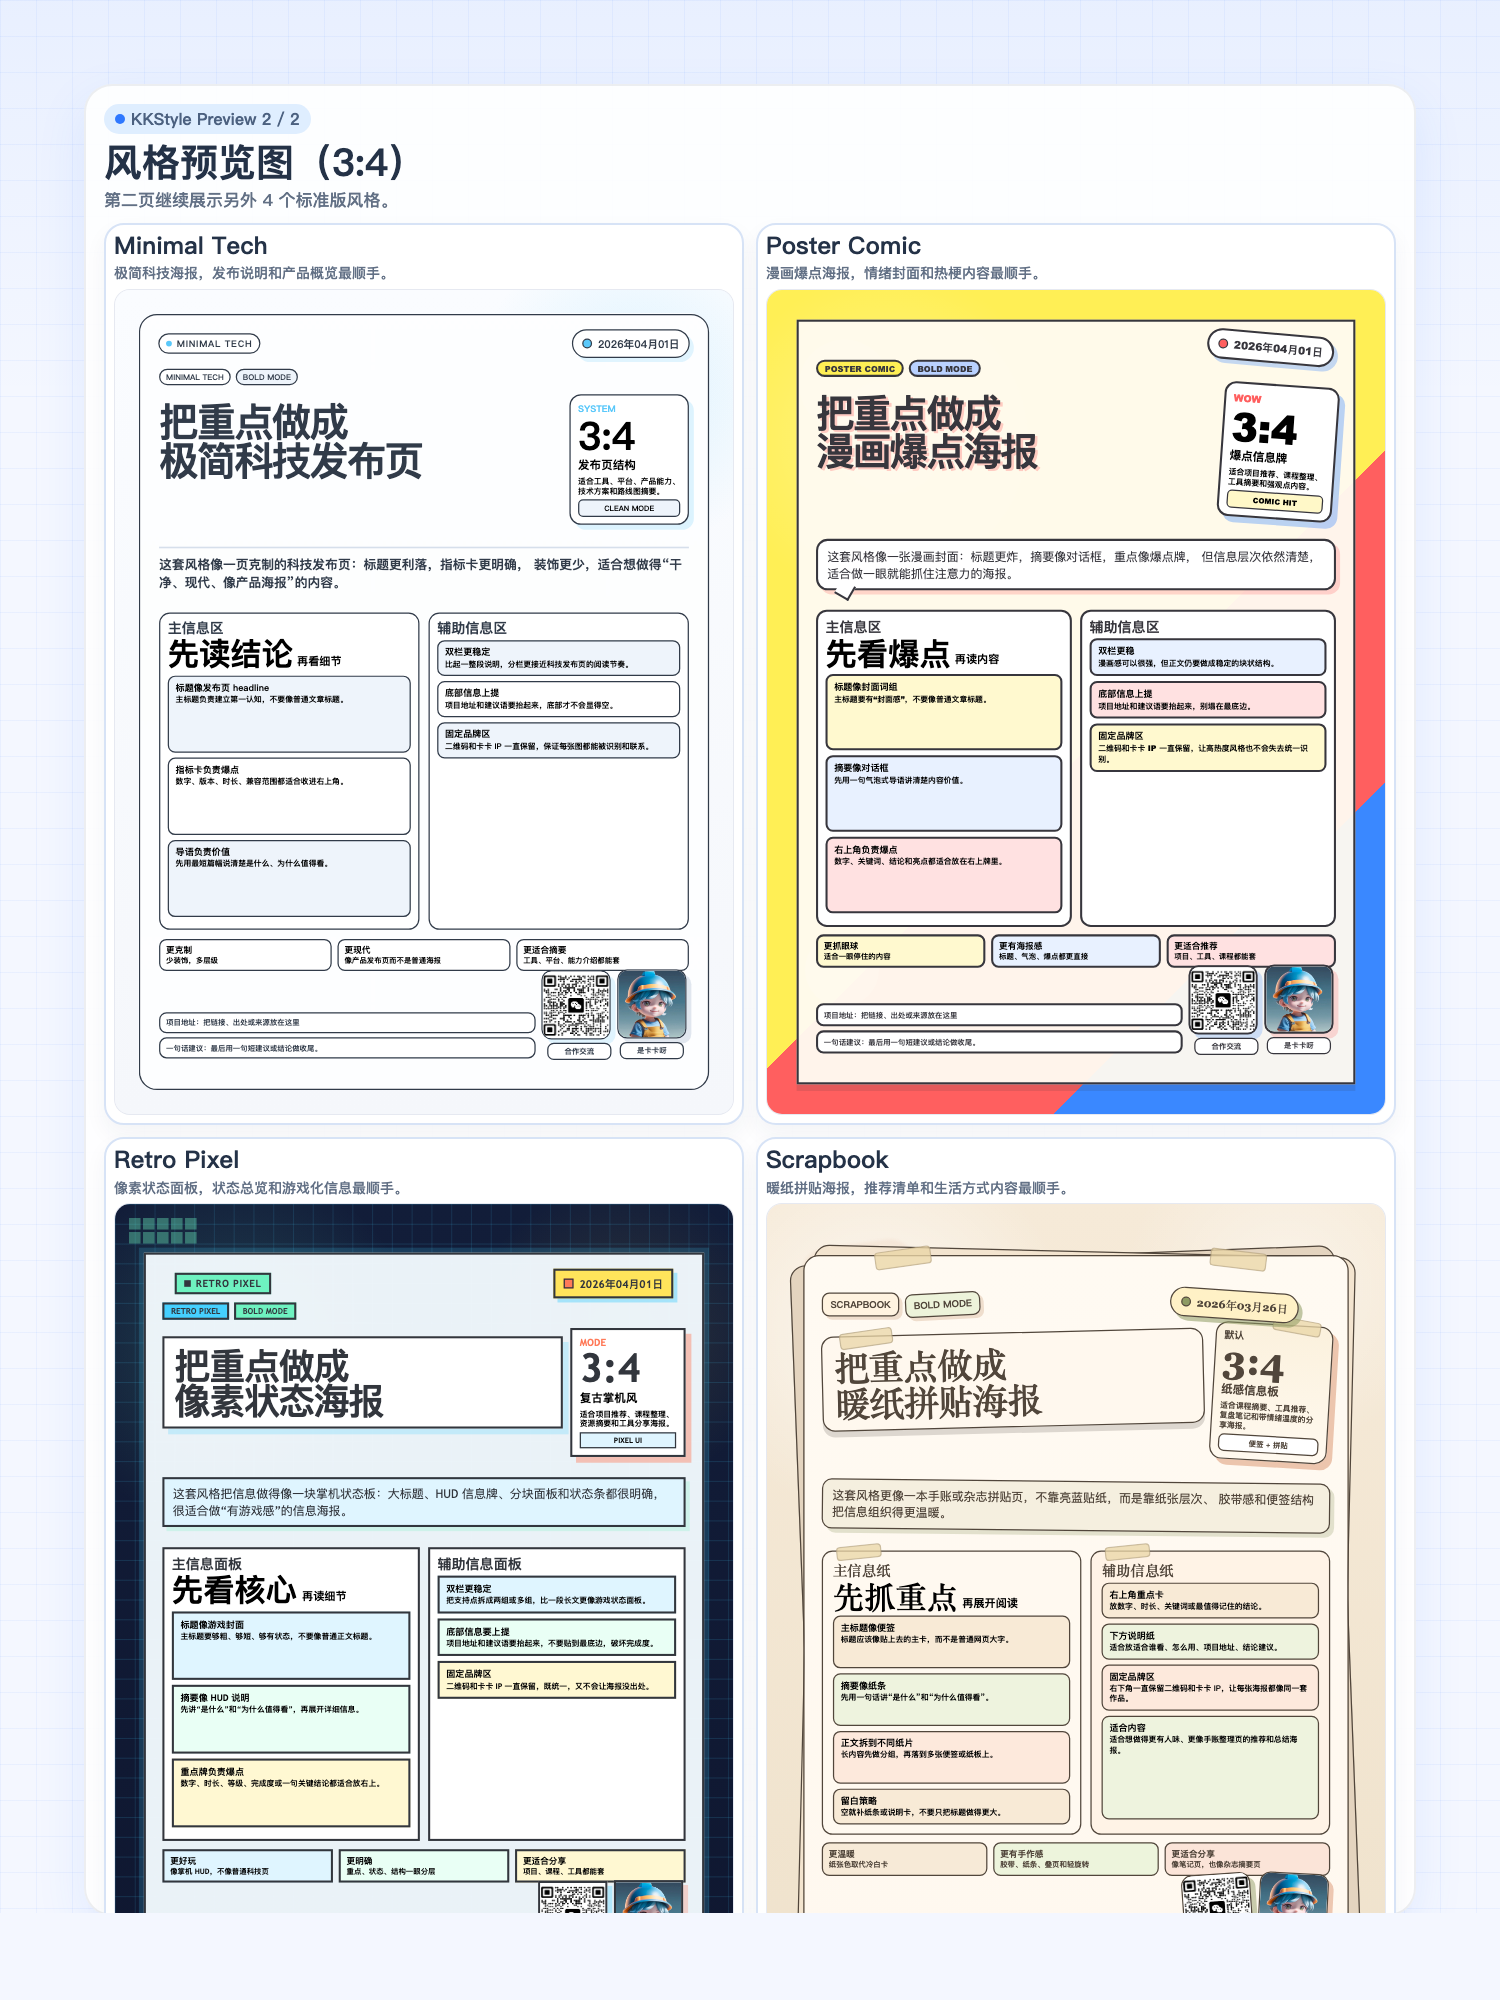
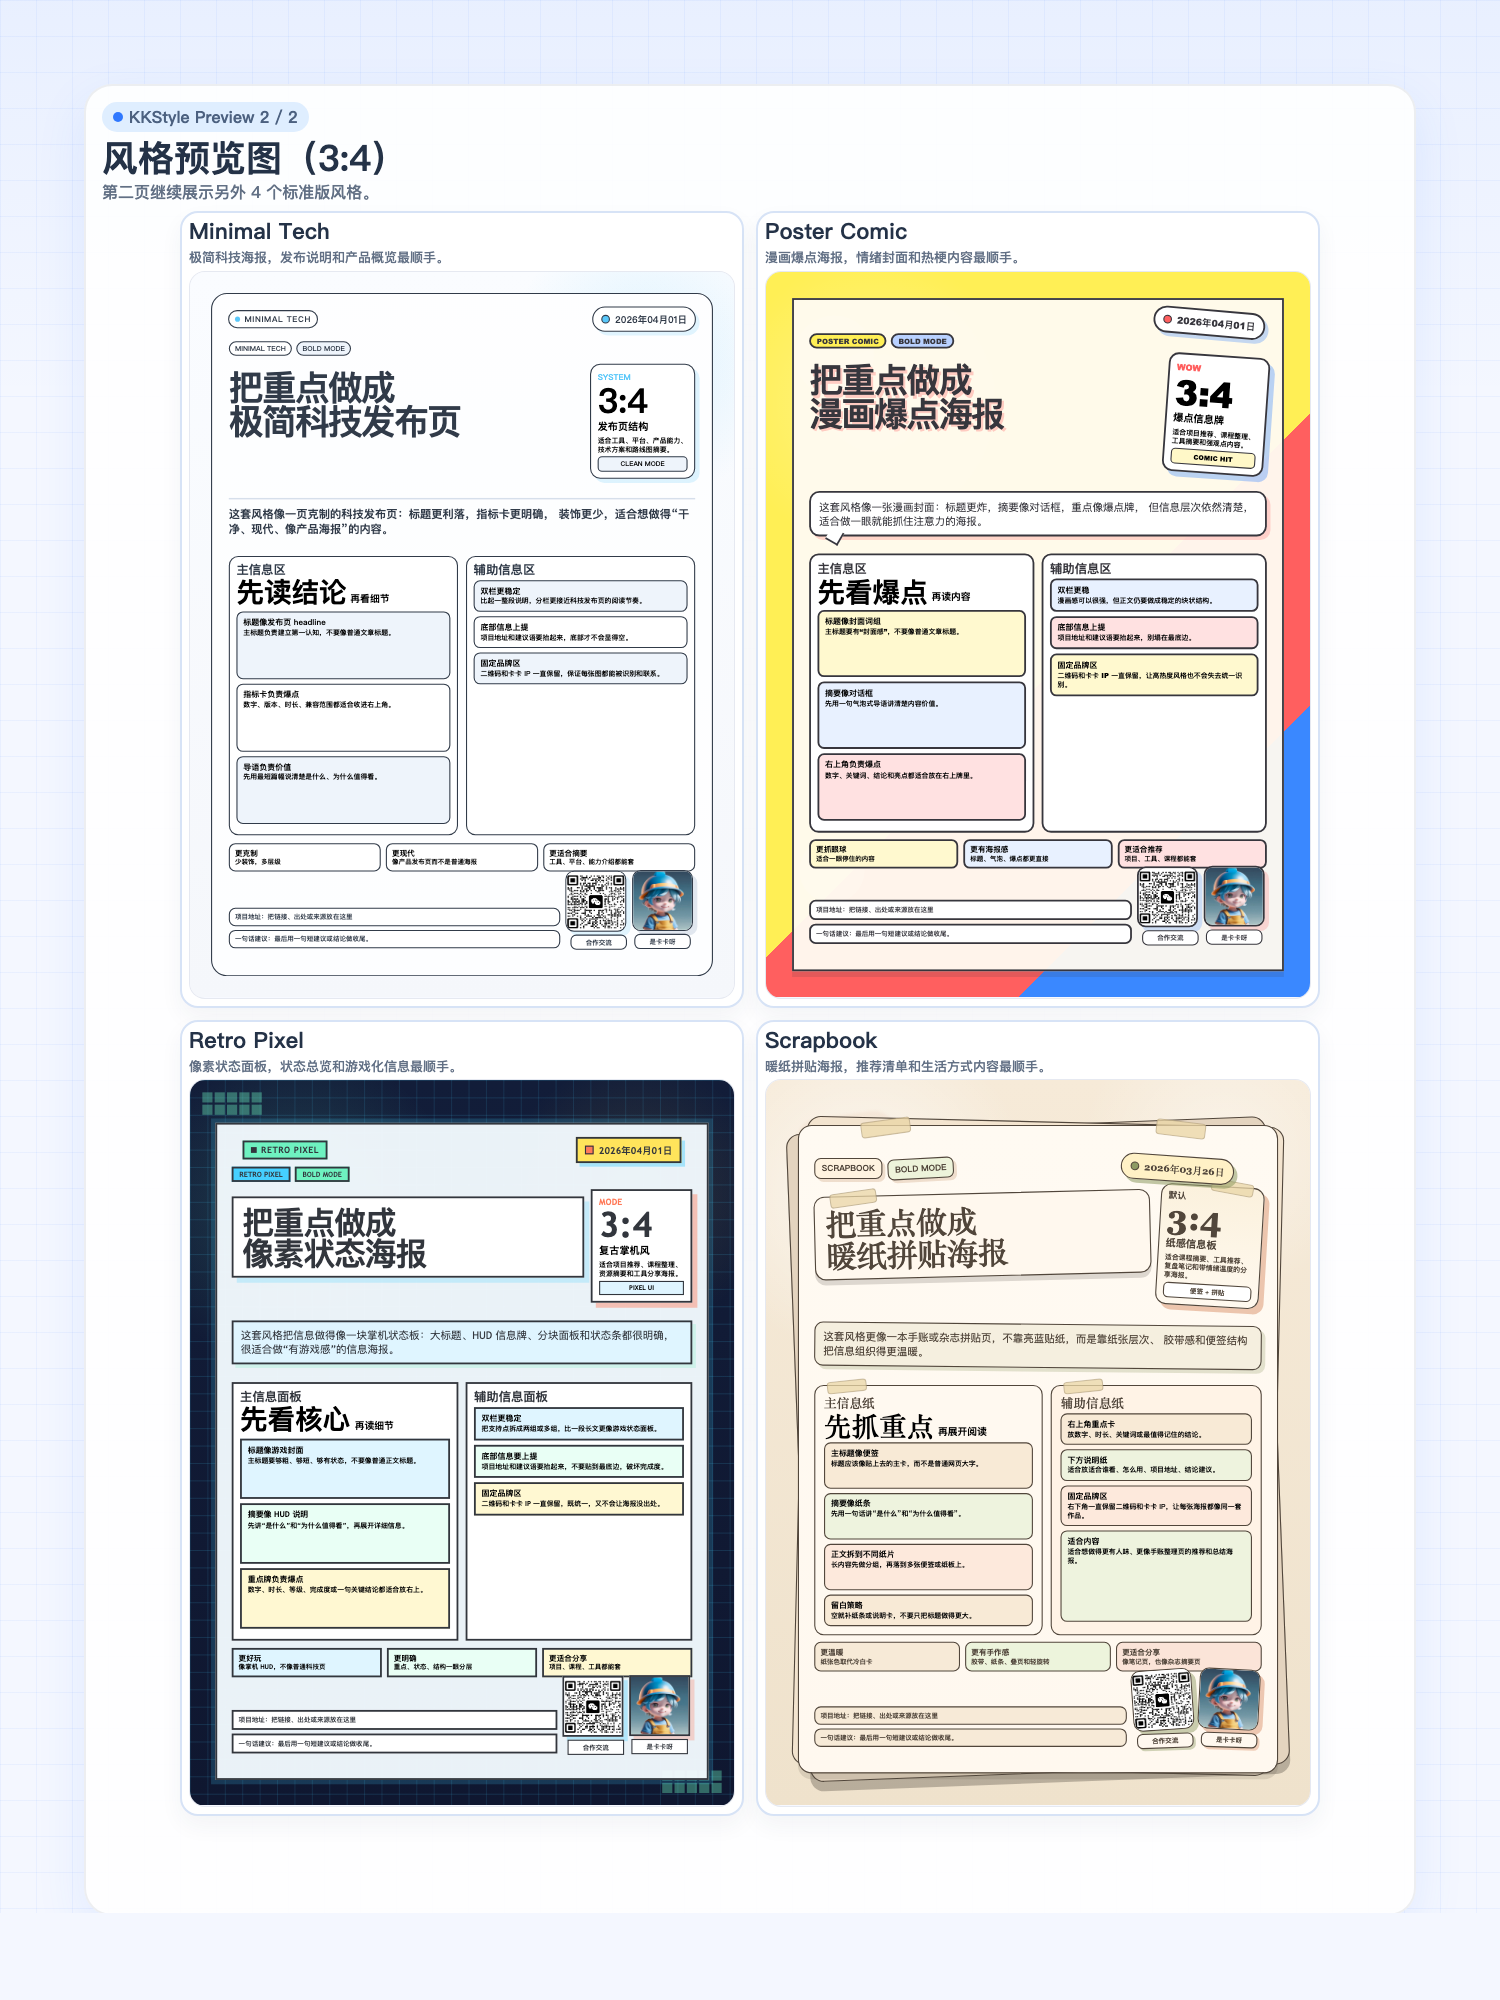
Fix page 2 preview framing

diff --git a/previews/style-preview-3x4-2.html b/previews/style-preview-3x4-2.html
@@ -51,14 +51,14 @@
 
       .sheet {
         height: 100%;
-        padding: 18px;
+        padding: 16px;
         border: 2px solid rgba(36, 50, 71, 0.08);
         border-radius: 28px;
         background: var(--paper);
         box-shadow: 0 18px 50px rgba(47, 120, 255, 0.1);
         display: grid;
         grid-template-rows: auto auto 1fr;
-        gap: 10px;
+        gap: 8px;
       }
 
       .eyebrow {
@@ -85,19 +85,19 @@
 
       .hero {
         display: grid;
-        gap: 6px;
+        gap: 4px;
       }
 
       .hero h1 {
         margin: 0;
-        font-size: 38px;
+        font-size: 36px;
         line-height: 1.02;
         font-weight: 900;
       }
 
       .hero p {
         margin: 0;
-        font-size: 17px;
+        font-size: 16px;
         line-height: 1.4;
         color: var(--muted);
         font-weight: 500;
@@ -106,23 +106,27 @@
       .grid {
         display: grid;
         grid-template-columns: repeat(2, minmax(0, 1fr));
+        width: 100%;
+        max-width: 1140px;
+        margin: 0 auto;
         gap: 12px;
+        align-content: start;
       }
 
       .card {
-        padding: 8px;
+        padding: 7px;
         border: 2px solid var(--line);
-        border-radius: 20px;
+        border-radius: 18px;
         background: #ffffff;
         display: grid;
         grid-template-rows: auto auto auto;
-        gap: 6px;
+        gap: 5px;
         align-content: start;
         box-shadow: 0 10px 22px rgba(36, 50, 71, 0.05);
       }
 
       .card-title {
-        font-size: 24px;
+        font-size: 22px;
         line-height: 1.08;
         font-weight: 800;
       }
@@ -147,7 +151,7 @@
 
       .card-desc {
         margin: 0;
-        font-size: 14px;
+        font-size: 13px;
         line-height: 1.3;
         color: var(--muted);
         font-weight: 500;

diff --git a/previews/style-preview-3x4-noline-2.html b/previews/style-preview-3x4-noline-2.html
@@ -51,14 +51,14 @@
 
       .sheet {
         height: 100%;
-        padding: 18px;
+        padding: 16px;
         border: 2px solid rgba(36, 50, 71, 0.08);
         border-radius: 28px;
         background: var(--paper);
         box-shadow: 0 18px 50px rgba(47, 120, 255, 0.1);
         display: grid;
         grid-template-rows: auto auto 1fr;
-        gap: 10px;
+        gap: 8px;
       }
 
       .eyebrow {
@@ -85,19 +85,19 @@
 
       .hero {
         display: grid;
-        gap: 6px;
+        gap: 4px;
       }
 
       .hero h1 {
         margin: 0;
-        font-size: 38px;
+        font-size: 36px;
         line-height: 1.02;
         font-weight: 900;
       }
 
       .hero p {
         margin: 0;
-        font-size: 17px;
+        font-size: 16px;
         line-height: 1.4;
         color: var(--muted);
         font-weight: 500;
@@ -106,23 +106,27 @@
       .grid {
         display: grid;
         grid-template-columns: repeat(2, minmax(0, 1fr));
+        width: 100%;
+        max-width: 1140px;
+        margin: 0 auto;
         gap: 12px;
+        align-content: start;
       }
 
       .card {
-        padding: 8px;
+        padding: 7px;
         border: 2px solid var(--line);
-        border-radius: 20px;
+        border-radius: 18px;
         background: #ffffff;
         display: grid;
         grid-template-rows: auto auto auto;
-        gap: 6px;
+        gap: 5px;
         align-content: start;
         box-shadow: 0 10px 22px rgba(36, 50, 71, 0.05);
       }
 
       .card-title {
-        font-size: 24px;
+        font-size: 22px;
         line-height: 1.08;
         font-weight: 800;
       }
@@ -147,7 +151,7 @@
 
       .card-desc {
         margin: 0;
-        font-size: 14px;
+        font-size: 13px;
         line-height: 1.3;
         color: var(--muted);
         font-weight: 500;
